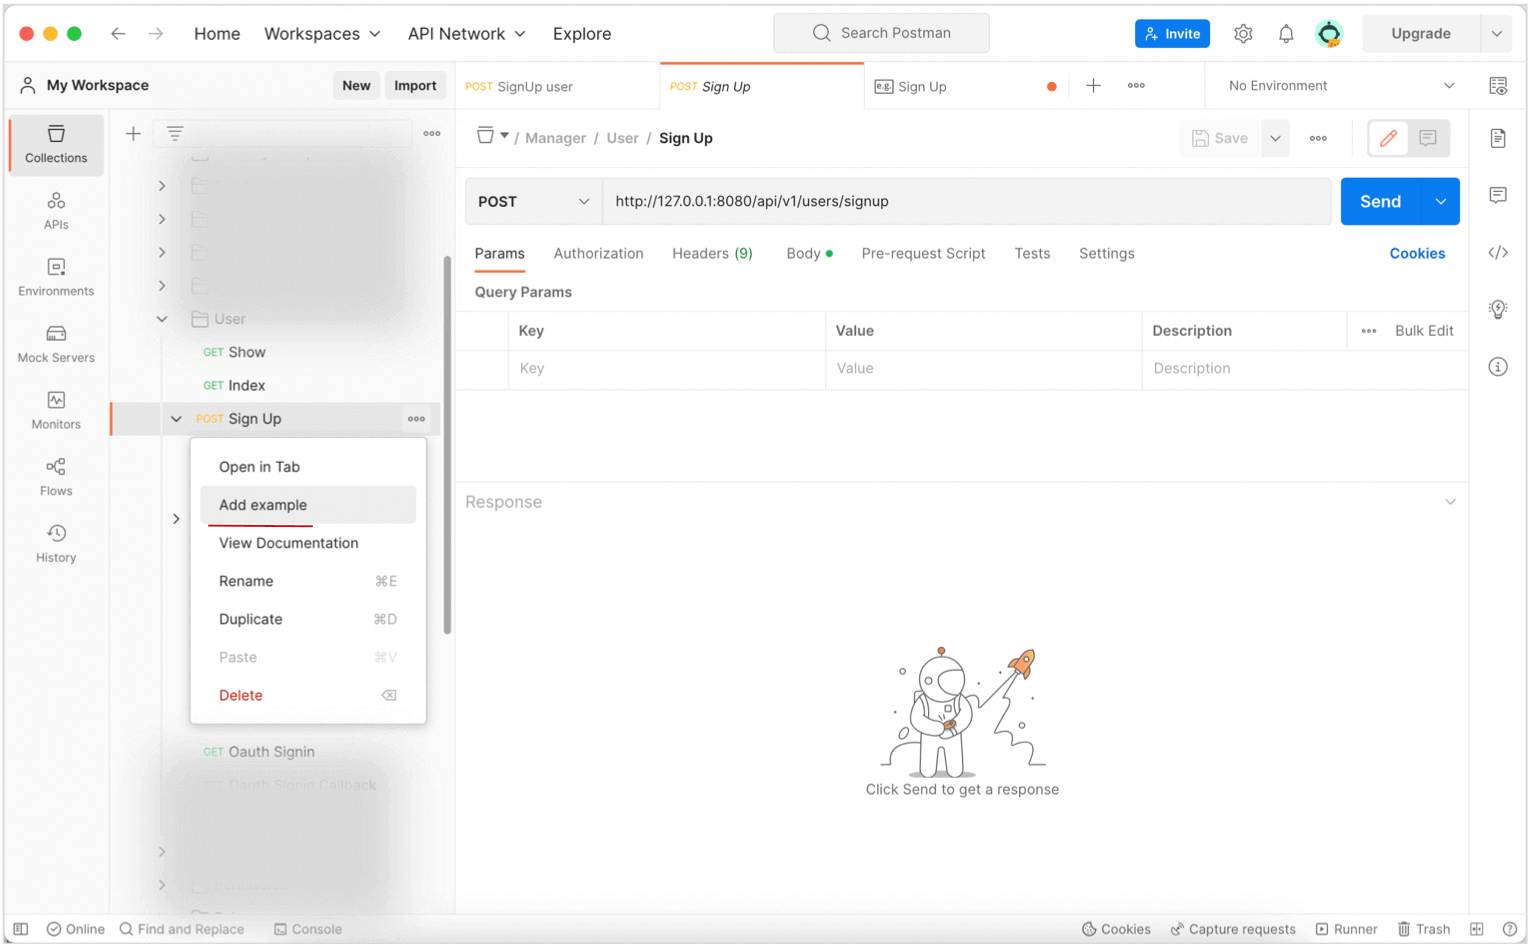
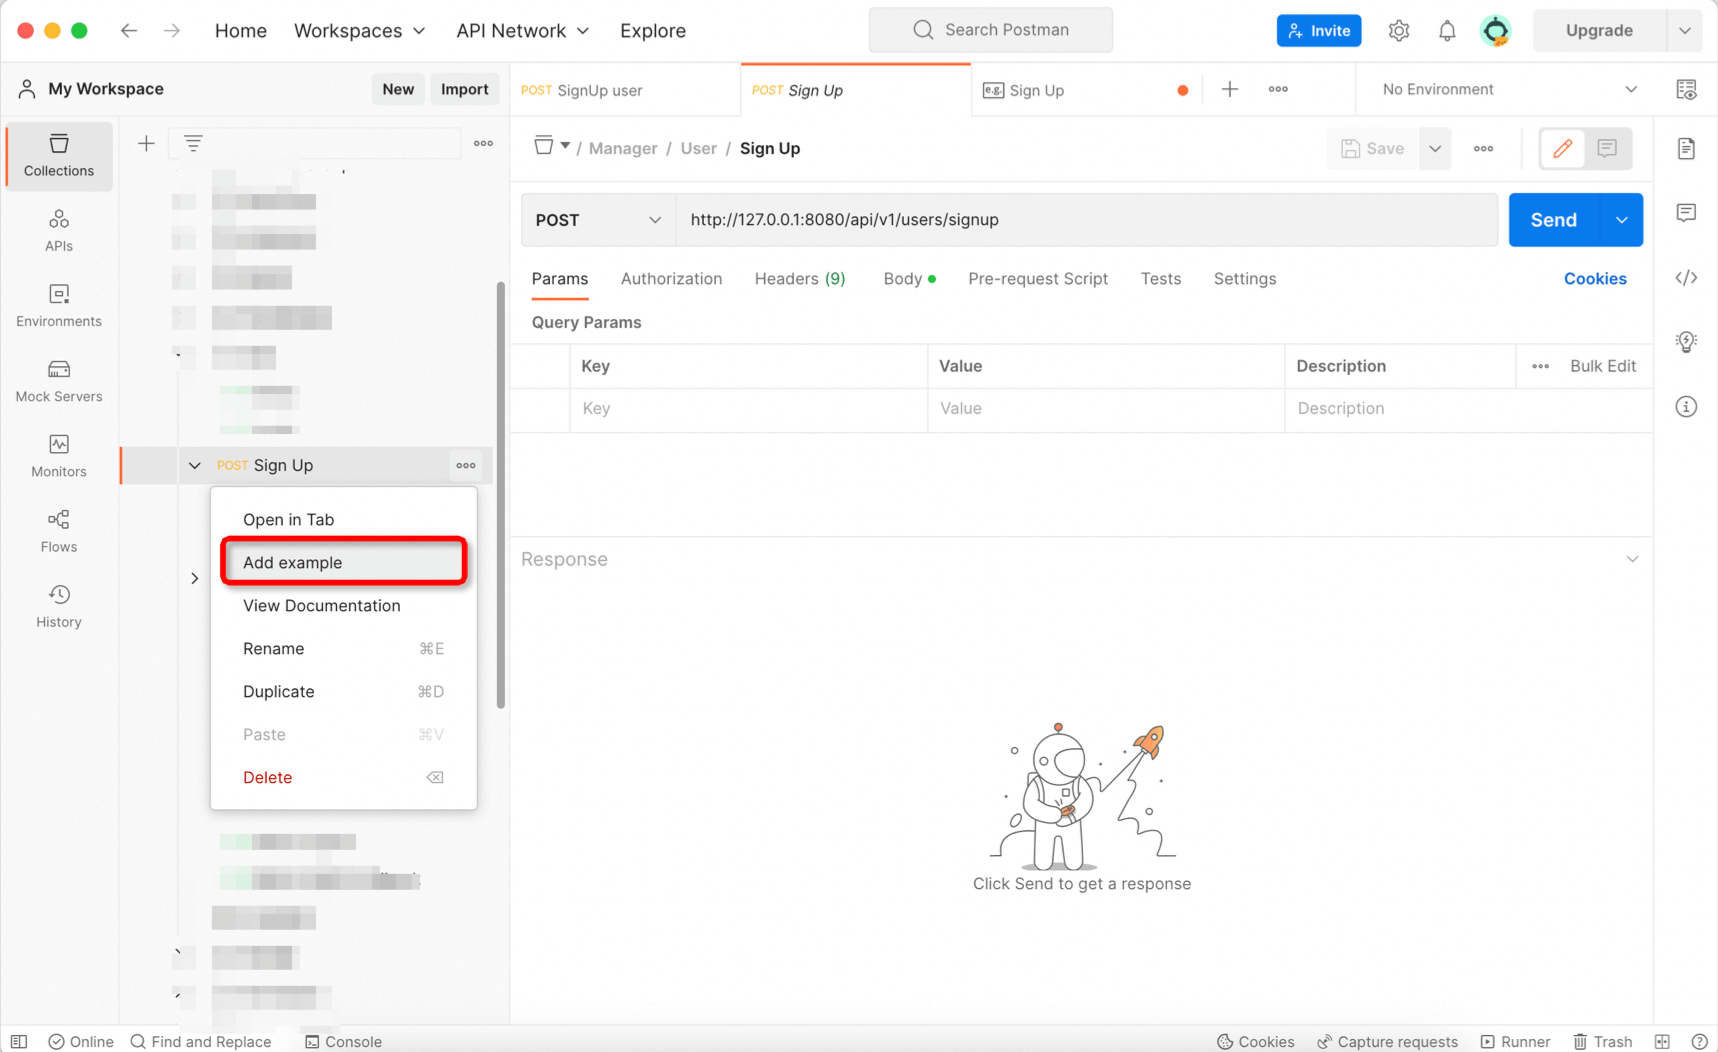
chore:signup adds or splits and modifies images

diff --git a/CONTRIBUTING.md b/CONTRIBUTING.md
@@ -1,6 +1,6 @@
- # Contributing to Dragonfly Console
+ # Contributing to Dragonfly Console 
 
-It is warmly welcomed if you have the interest to hack on Dragonfly.
+It is warmly welcomed if you have the interest to hack on Dragonfly Console.
 First, we encourage this kind of willingness very much.
 And here is a list of contributing guide for you.
 
@@ -22,26 +22,32 @@ And here is a list of contributing guide for you.
   - [postman mock server step](#postman-mock-server-step)
     - [1. Install postman](#1-install-postman)
     - [2. Import API](#2-import-api)
+        - [copy to collection.](#copy-to-collection)
     - [3. Creating a mock from a collection](#3-creating-a-mock-from-a-collection)
+        - [3.1 Supplement the mock server name information and save it. Then copy out the mock url.](#31-supplement-the-mock-server-name-information-and-save-it-then-copy-out-the-mock-url)
+        - [3.2 If the request has been sent, use the mock server directly based on the request.](#32-if-the-request-has-been-sent-use-the-mock-server-directly-based-on-the-request)
+        - [3.3 If no request is sent, you need to create an example.](#33-if-no-request-is-sent-you-need-to-create-an-example)
+        - [3.4 Modify the name such as signup, modify the response message, and Save Example.](#34-modify-the-name-such-as-signup-modify-the-response-message-and-save-example)
     - [4. Verification successful](#4-verification-successful)
+        - [Open the mock server to see if the requested column was successful.](#open-the-mock-server-to-see-if-the-requested-column-was-successful)
 
 ## Reporting security issues
 
 Security issues are always treated seriously.
 As our usual principle, we discourage anyone to spread security issues.
-If you find a security issue of Dragonfly, please do not discuss it in
+If you find a security issue of Dragonfly Console, please do not discuss it in
 public and even do not open a public issue.
 Instead, we encourage you to send us a private email to
 [dragonfly-developers@googlegroups.com](mailto:dragonfly-developers@googlegroups.com) to report this.
 
 ## Reporting general issues
 
-To be honest, we regard every user of Dragonfly as a very kind contributor.
-After experiencing Dragonfly, you may have some feedback for the project.
+To be honest, we regard every user of Dragonfly Console as a very kind contributor.
+After experiencing Dragonfly Console, you may have some feedback for the project.
 Then feel free to open an issue via
-[NEW ISSUE](https://github.com/dragonflyoss/Dragonfly2/issues/new).
+[NEW ISSUE](https://github.com/dragonflyoss/console/issues/new).
 
-Since we collaborate project Dragonfly in a distributed way,
+Since we collaborate project Dragonfly Console in a distributed way,
 we appreciate **WELL-WRITTEN**, **DETAILED**, **EXPLICIT** issue reports.
 To make the communication more efficient, we wish everyone could
 search if your issue is an existing one in the searching list.
@@ -74,8 +80,8 @@ network locations, private business data and so on.
 
 ## Code and doc contribution
 
-Every action to make project Dragonfly better is encouraged.
-On GitHub, every improvement for Dragonfly could be
+Every action to make project Dragonfly Console better is encouraged.
+On GitHub, every improvement for Dragonfly Console could be
 via a PR (short for pull request).
 
 - If you find a typo, try to fix it!
@@ -94,7 +100,7 @@ Just remember one principle:
 
 > WE ARE LOOKING FORWARD TO ANY PR FROM YOU.
 
-Since you are ready to improve Dragonfly with a PR,
+Since you are ready to improve Dragonfly Console with a PR,
 we suggest you could take a look at the PR rules here.
 
 - [Workspace Preparation](#workspace-preparation)
@@ -110,37 +116,37 @@ To put forward a PR, we assume you have registered
 a GitHub ID. Then you could finish
 the preparation in the following steps:
 
-1. **FORK** Dragonfly to your repository.
+1. **FORK** Dragonfly Console to your repository.
 
   To make this work, you just need to click the button Fork
-  in right-left of [dragonflyoss/Dragonfly2](https://github.com/dragonflyoss/Dragonfly2)
+  in right-left of [dragonflyoss/console](https://github.com/dragonflyoss/console)
   main page. Then you will end up with your repository in
-  `https://github.com/<your-username>/Dragonfly`,
+  `https://github.com/<your-username>/Dragonfly Console`,
   in which `your-username` is your GitHub username.
 
 1. **CLONE** your own repository to develop locally.
 
-  Use `git clone https://github.com/<your-username>/Dragonfly2.git`
+  Use `git clone https://github.com/dragonflyoss/console.git`
   to clone repository to your local machine.
   Then you can create new branches to finish the change you wish to make.
 
 1. **Set Remote** upstream to be
-    `https://github.com/dragonflyoss/Dragonfly2.git`
+    `https://github.com/dragonflyoss/console.git`
 
   using the following two commands:
 
   ```bash
-  git remote add upstream https://github.com/dragonflyoss/Dragonfly2.git
+  git remote add upstream https://github.com/dragonflyoss/console.git
   git remote set-url --push upstream no-pushing
   ```
 
   With this remote setting, you can check your git remote configuration like this:
-
+https://github.com/dragonflyoss/console.git
   ```bash
   $ git remote -v
-  origin     https://github.com/<your-username>/Dragonfly2.git (fetch)
-  origin     https://github.com/<your-username>/Dragonfly2.git (push)
-  upstream   https://github.com/dragonflyoss/Dragonfly2.git (fetch)
+  origin     https://github.com/<your-username>/console.git (fetch)
+  origin     https://github.com/<your-username>/console.git (push)
+  upstream   https://github.com/dragonflyoss/console.git (fetch)
   upstream   no-pushing (push)
   ```
 
@@ -151,7 +157,7 @@ the preparation in the following steps:
   Update local working directory:
 
   ```bash
-  cd Dragonfly2
+  cd  console
   git fetch upstream
   git checkout main
   git rebase upstream/main
@@ -168,13 +174,13 @@ the preparation in the following steps:
 ### Branch Definition
 
 Right now we assume every contribution via pull
-request is for [branch main](https://github.com/dragonflyoss/Dragonfly2/tree/main)
-in Dragonfly. Before contributing,
+request is for [branch main](https://github.com/dragonflyoss/console)
+in Dragonfly Console. Before contributing,
 be aware of branch definition would help a lot.
 
 As a contributor, keep in mind again that every
 contribution via pull request is for branch main.
-While in project Dragonfly, there are several other branches,
+While in project Dragonfly Console, there are several other branches,
 we generally call them rc branches, release branches and backport branches.
 
 Before officially releasing a version,
@@ -192,7 +198,7 @@ MAJOR.MINOR.PATCH of [SemVer](http://semver.org/).
 
 ### Commit Rules
 
-Actually in Dragonfly, we take two rules seriously when committing:
+Actually in Dragonfly Console, we take two rules seriously when committing:
 
 - [Commit Message](#commit-message)
 - [Commit Content](#commit-content)
@@ -239,7 +245,7 @@ we do take more emphasis on code review.
 
 ### PR Description
 
-PR is the only way to make change to Dragonfly project files.
+PR is the only way to make change to Dragonfly Console project files.
 To help reviewers better get your purpose,
 PR description could not be too detailed.
 We encourage contributors to follow the
@@ -261,7 +267,7 @@ We can use either the standalone app or the browser extension.
 
 ### 2. Import API
 
-If you need to use mock server, please import the API https://raw.githubusercontent.com/dragonflyoss/Dragonfly2/main/api/manager/swagger.yaml ，as the picture shows.
+If you need to use mock server, please import the API https://raw.githubusercontent.com/dragonflyoss/Dragonfly2/main/api/manager/swagger.yaml , as the picture shows.
 
 Or you can also use the official Postman documentation API:https://learning.postman.com/docs/integrations/available-integrations/working-with-openAPI/ .
 
@@ -269,7 +275,8 @@ Or you can also use the official Postman documentation API:https://learning.post
   
 ![](/docs/images/contributing/postman-import-api.png)
    
-copy to collection.
+##### copy to collection.
+
 
 ![](/docs/images/contributing/postman-copy-collection.png)
     
@@ -279,29 +286,39 @@ Create a mock server under the collection: Select the corresponding collection, 
 
 Or you can also create a mock server according to the postman official website https://learning.postman.com/docs/designing-and-developing-your-api/mocking-data/setting-up-mock/ .
 
+
  ![](/docs/images/contributing/postman-mock-collection.png)
     
-Supplement the mock server name information and save it. Then copy out the mock url.
+##### 3.1 Supplement the mock server name information and save it. Then copy out the mock url.
+
 
 ![](/docs/images/contributing/postman-creat-mock.png)
      
+
 ![](/docs/images/contributing/postman-copy-mockUrl.png)
     
-If the request has been sent, use the mock server directly based on the request.
+##### 3.2 If the request has been sent, use the mock server directly based on the request.
+
    
  ![](/docs/images/contributing/postman-change-path.png)
 
-If no request is sent, you need to create an example.
+##### 3.3 If no request is sent, you need to create an example.
+
 
 ![](/docs/images/contributing/postman-add-example.png)
     
-Modify the name such as signup, modify the response message, and Save Example.
+
+##### 3.4 Modify the name such as signup, modify the response message, and Save Example.
+
 
 ![](/docs/images/contributing/postman-chang-mock-path.png)
    
+
 ### 4. Verification successful
 
-Open the mock server to see if the requested column was successful.
+
+##### Open the mock server to see if the requested column was successful.
+
 
 ![](/docs/images/contributing/postman-verify.png)
    

diff --git a/.github/PULL_REQUEST_TEMPLATE.md b/.github/PULL_REQUEST_TEMPLATE.md
@@ -15,4 +15,23 @@
 
 <!--- Why is this change required? What problem does it solve? -->
 
-## Screenshots (if appropriate):
+## Screenshots (if appropriate)
+
+## Types of changes
+
+<!--- What types of changes does your code introduce? Put an `x` in all the boxes that apply: -->
+
+- [ ] Bug fix (non-breaking change which fixes an issue)
+- [ ] New feature (non-breaking change which adds functionality)
+- [ ] Breaking change (fix or feature that would cause existing functionality to change)
+- [ ] Documentation Update (if none of the other choices apply)
+
+## Checklist
+
+<!--- Go over all the following points, and put an `x` in all the boxes that apply. -->
+<!--- If you're unsure about any of these, don't hesitate to ask. We're here to help! -->
+
+- [ ] My change requires a change to the documentation.
+- [ ] I have updated the documentation accordingly.
+- [ ] I have read the **CONTRIBUTING** document.
+- [ ] I have added tests to cover my changes.
